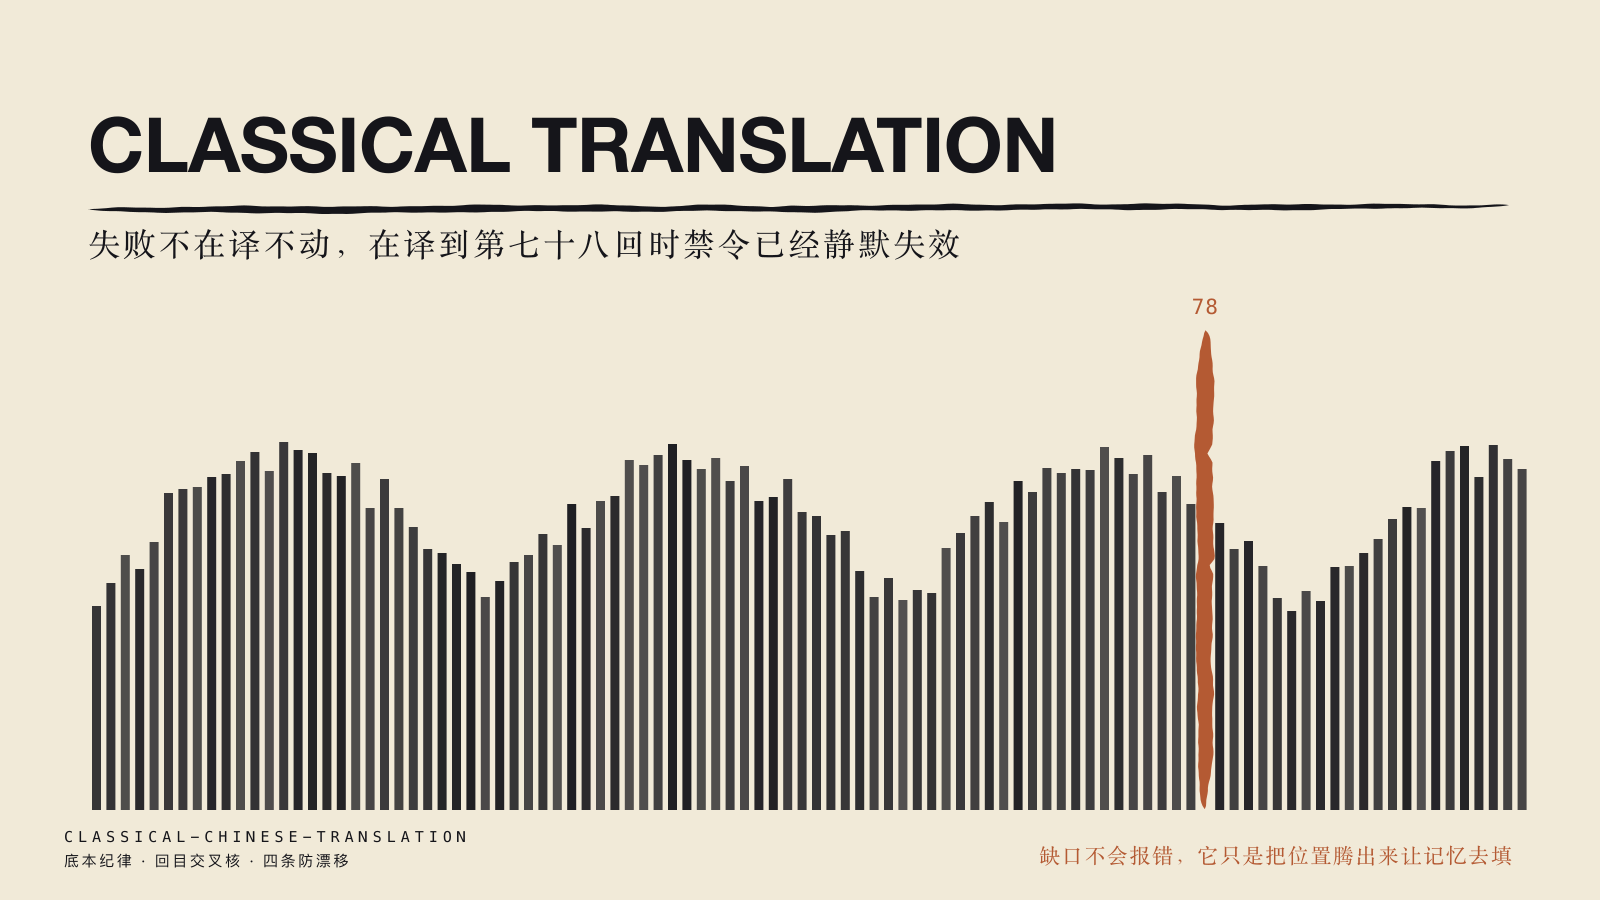
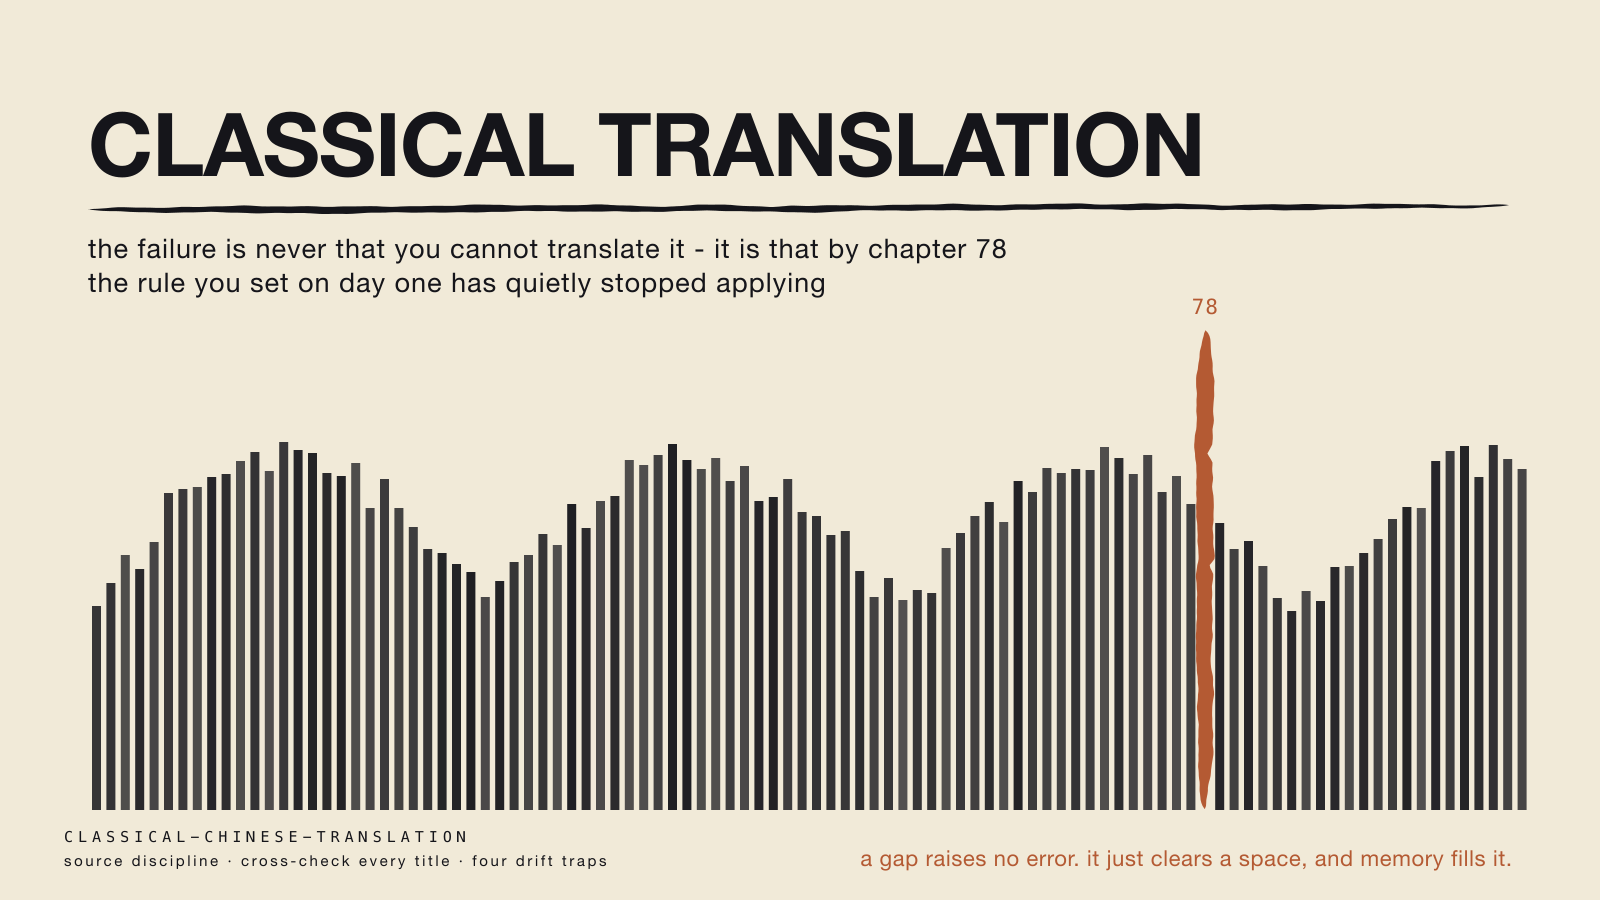
posters: script-check and classical-translation in English
Both posters now carry English text only; the skills themselves stay in Chinese,
which is what they encode.

diff --git a/posters/build_script_check.py b/posters/build_script_check.py
@@ -4,18 +4,18 @@
 RECIPE
   subject:  一个人，一件事，其余都是陪衬
   intent:   announce
-  text:     剧本检查（锁）
-  inks:     ink #15151A + 靛青 #1B3FA0；纸 冷灰 #EAEAE6
-  division: 墨＝主角与标题；靛青＝那件事（一束光），别处不出现
-  layout:   图占版——人立在光里，光跨出下边
-  focus:    一个巨大的物：那束光，宽过画面三分之一
-  air:      右侧整片灰
+  text:     SCRIPT CHECK (locked)
+  inks:     ink #15151A + indigo #1B3FA0; paper cool grey #EAEAE6
+  division: ink = the figure and the type; indigo = the one thing (a shaft of light), nowhere else
+  layout:   image-dominant - the figure stands in the light, the light crosses the bottom edge
+  focus:    one enormous object: the shaft, wider than a third of the sheet
+  air:      the grey to the right
   paper:    ~45%
-  texture:  纸纹＋套版偏移
+  texture:  paper grain + misregistration
 
 WHY
-  「一场戏为一个人的一件事而写」——所以画面上只许站一个人，只许有一束光。
-  陪衬全删：这张海报本身就得过它自己那一条。
+  "A scene is written for one person and one thing." So exactly one figure stands here and
+  exactly one light falls. Every support element is cut - the poster has to pass its own rule.
 """
 from poster_kit import (CJK_SONG, H, INDIGO, INK, LATIN, MONO, W, COOL,  # noqa: F401
                         blob, cut_shape, cut_stroke, disc, footer, limb, rule, smooth,
@@ -40,20 +40,21 @@ def figure():
 
 
 def build():
-    rows = [("一人", "一事"), ("埋了的", "要收"), ("支线", "为主线服务，否则删"),
-            ("写完", "问这场怎么演")]
+    rows = [("ONE", "person, one thing"), ("PLANTED", "must be paid off"),
+            ("A SUBPLOT", "serves the spine, or goes"),
+            ("FINISHED?", "ask how it gets played")]
     right, y = [], 392
     for a, b in rows:
-        right.append(text(980, y, a, 40, INK, CJK_SONG, track=2.0))
-        right.append(text(1180, y, b, 40, INK, CJK_SONG, track=2.0))
+        right.append(text(980, y, a, 34, INK, MONO, track=2.4))
+        right.append(text(1206, y, b, 34, INK, LATIN, track=0.4))
         right.append(f'<path d="{cut_stroke([(980, y + 22), (1512, y + 20)], 2.4, 1.6, seed=int(y), wobble=0.9)}" fill="{INK}" opacity="0.35"/>')
         y += 104
 
     inner = (spotlight() + figure() + "".join(right)
-             + text(88, 172, "SCRIPT CHECK", 84, INK, LATIN, track=-0.8, weight="700")
+             + text(88, 176, "SCRIPT CHECK", 96, INK, LATIN, track=-1.2, weight="700")
              + rule(88, 210, 1512, 206, 3.6, 2.4, seed=5)
-             + text(88, 254, "一场戏为一个人的一件事而写，其余都是陪衬", 32, INK, CJK_SONG, track=3.0)
-             + footer("script-check", "结构 · 伏笔 · 对白八查 · 三处收口"))
+             + text(88, 258, "a scene is written for one person and one thing; everything else is support", 27, INK, LATIN, track=1.0)
+             + footer("script-check", "structure · planting · eight dialogue checks · three closes"))
     write("script-check", COOL, inner)
 
 

diff --git a/posters/build_classical_translation.py b/posters/build_classical_translation.py
@@ -2,20 +2,21 @@
 """Poster: classical-chinese-translation.
 
 RECIPE
-  subject:  一百回的书脊，和第七十八回那一道缺口
+  subject:  a hundred chapter spines, and the gap where 78 should be
   intent:   notify
-  text:     译古书（锁）
-  inks:     ink #15151A + 赭石 #B45A33；纸 暖白 #F1EAD8
-  division: 墨＝一百道书脊与标题；赭石＝缺的那一回，只此一处
-  layout:   物件场——同一个物件重复一百次，变高矮
-  focus:    一个反常：整齐的一百道里，第七十八道是空的
-  air:      标题下那条横带
+  text:     CLASSICAL TRANSLATION (locked)
+  inks:     ink #15151A + ochre #B45A33; paper warm white #F1EAD8
+  division: ink = one hundred spines and the type; ochre = the missing chapter, and only that
+  layout:   object field - one element repeated a hundred times, varying in height
+  focus:    one abnormality: in a hundred even spines, the seventy-eighth is empty
+  air:      the band under the title
   paper:    ~50%
-  texture:  纸纹
+  texture:  paper grain
 
 WHY
-  这件 skill 的核心不是「怎么译」，是「译到第七十八回时禁令已经静默失效」。
-  缺口不会报错，它只是安静地把位置腾出来。所以海报画一百道，让那一道空着。
+  The skill is not about how to translate. It is about the fact that by chapter 78 the rule
+  set on day one has quietly stopped applying. A gap raises no error - it just clears a
+  space. So the poster draws a hundred, and leaves that one empty.
 """
 import math
 import random
@@ -46,13 +47,15 @@ def spines():
 
 def build():
     inner = (spines()
-             + text(88, 172, "CLASSICAL TRANSLATION", 76, INK, LATIN, track=-0.6, weight="700")
+             + text(88, 176, "CLASSICAL TRANSLATION", 88, INK, LATIN, track=-1.0, weight="700")
              + rule(88, 210, 1512, 206, 3.6, 2.4, seed=5)
-             + text(88, 254, "失败不在译不动，在译到第七十八回时禁令已经静默失效",
-                    32, INK, CJK_SONG, track=3.0)
-             + text(1512, 862, "缺口不会报错，它只是把位置腾出来让记忆去填",
-                    21, OCHRE, CJK_SONG, track=1.6, anchor="end")
-             + footer("classical-chinese-translation", "底本纪律 · 回目交叉核 · 四条防漂移"))
+             + text(88, 258, "the failure is never that you cannot translate it - it is that by chapter 78",
+                    27, INK, LATIN, track=1.0)
+             + text(88, 292, "the rule you set on day one has quietly stopped applying",
+                    27, INK, LATIN, track=1.0)
+             + text(1512, 866, "a gap raises no error. it just clears a space, and memory fills it.",
+                    22, OCHRE, LATIN, track=0.6, anchor="end")
+             + footer("classical-chinese-translation", "source discipline · cross-check every title · four drift traps"))
     write("classical-chinese-translation", WARM, inner)
 
 
